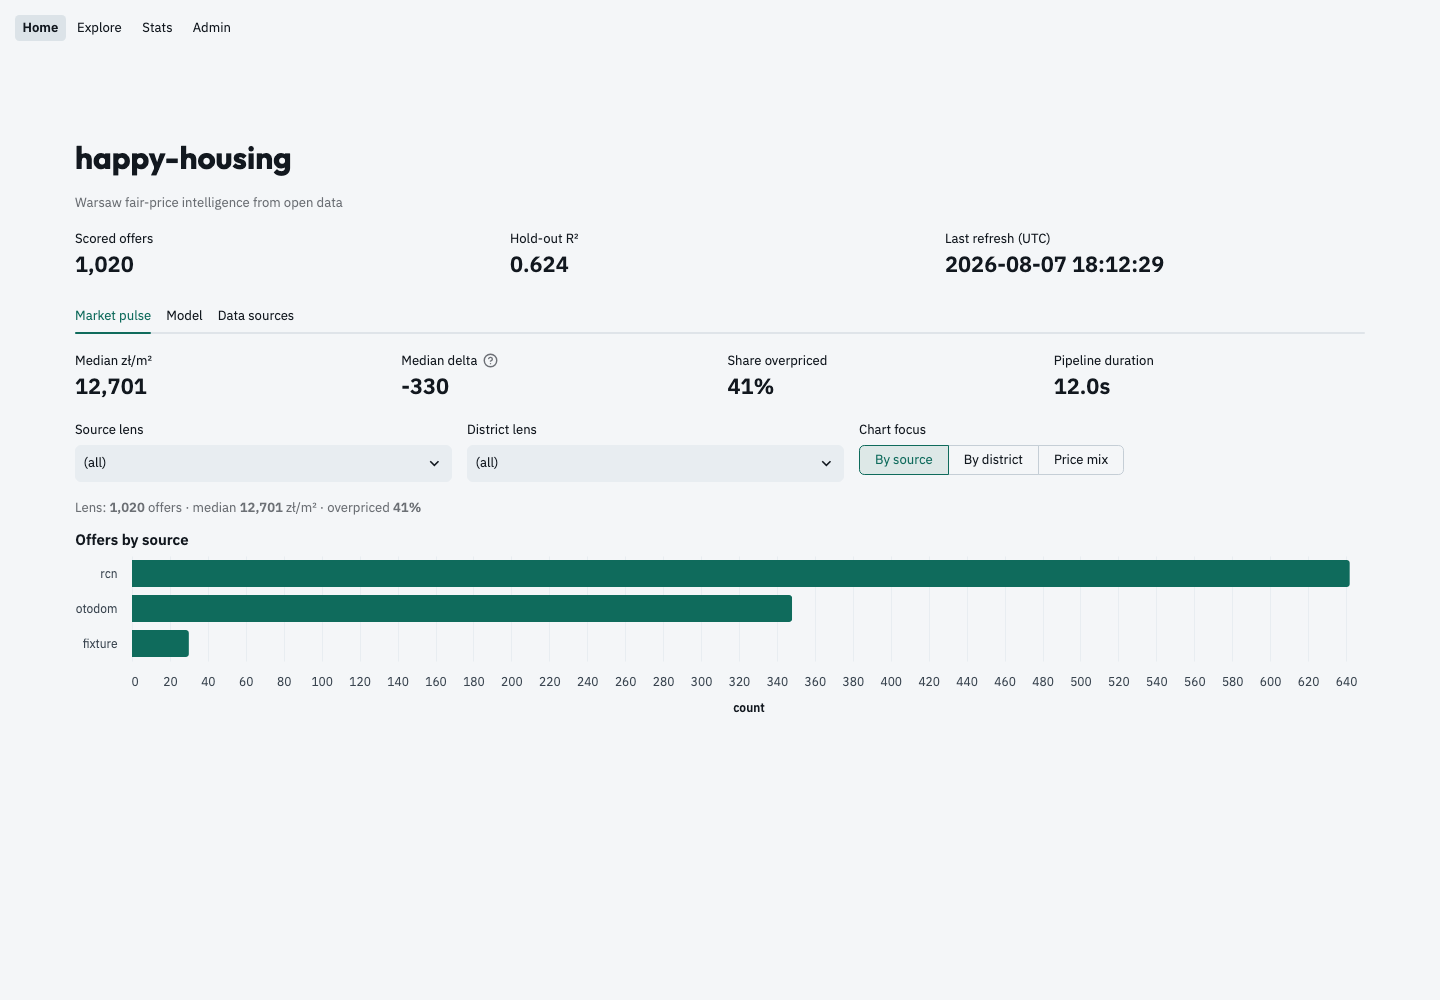
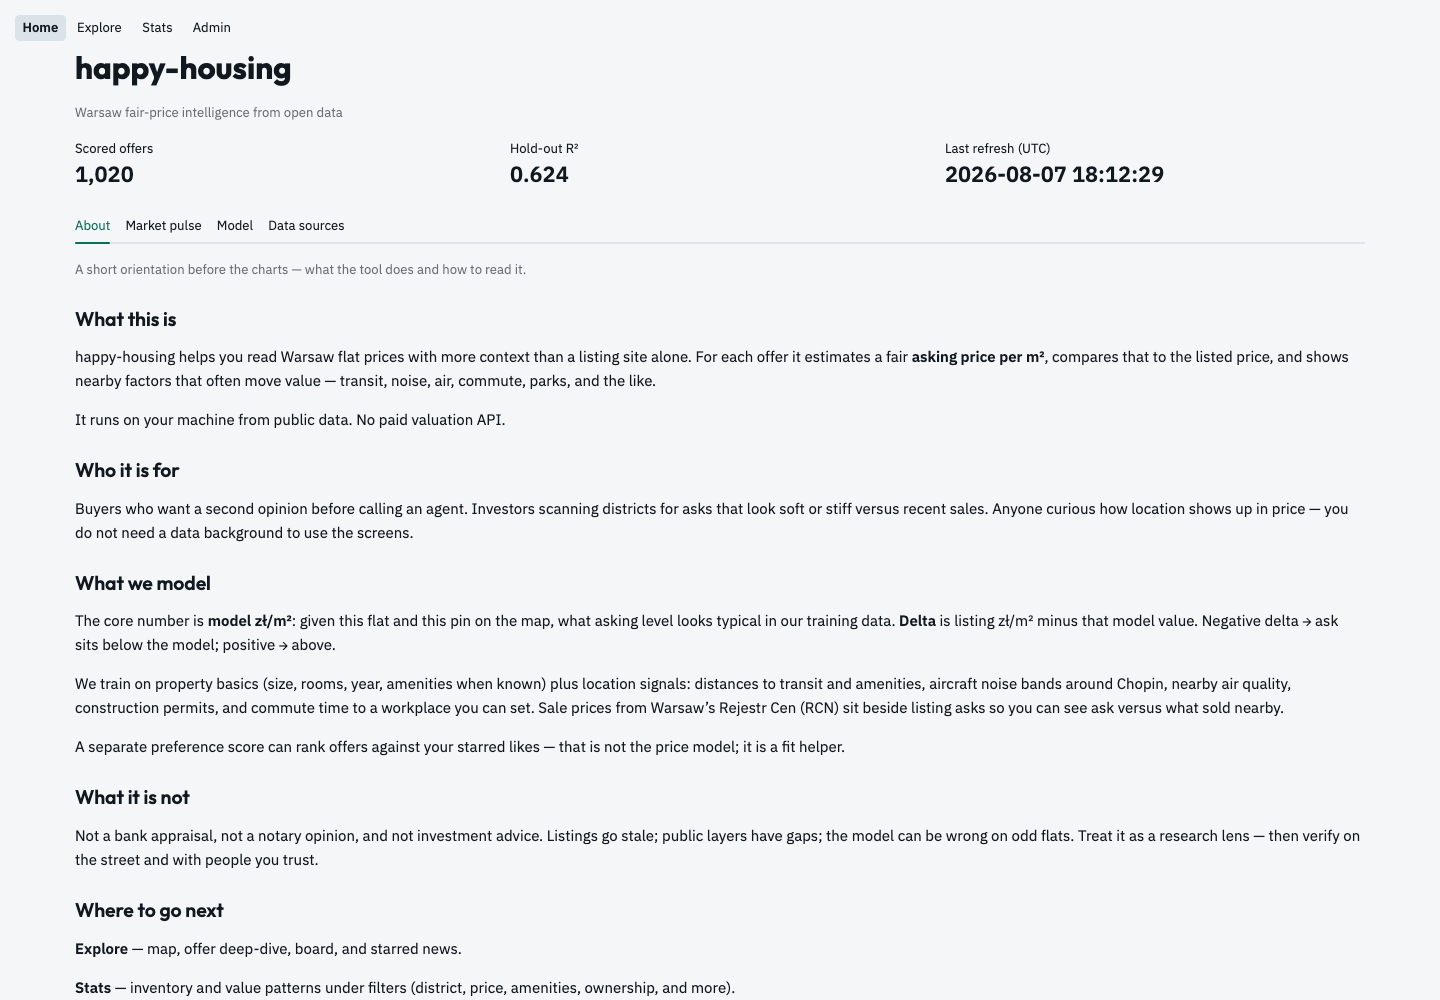
feat(home): add default About tab with business orientation
Plain-language purpose, what we model, limits, and where to go next.
Refresh README Home screenshots for About + Market pulse.

diff --git a/src/happy_housing/app/home_about.py b/src/happy_housing/app/home_about.py
@@ -1,0 +1,84 @@
+"""Home About tab copy — business purpose in plain language."""
+
+from __future__ import annotations
+
+from dataclasses import dataclass
+
+
+@dataclass(frozen=True, slots=True)
+class AboutSection:
+    """One titled block on the Home About tab."""
+
+    title: str
+    """Short section heading."""
+    body: str
+    """Markdown body (short paragraphs, no jargon stack)."""
+
+
+ABOUT_SECTIONS: tuple[AboutSection, ...] = (
+    AboutSection(
+        title="What this is",
+        body=(
+            "happy-housing helps you read Warsaw flat prices with more context "
+            "than a listing site alone. For each offer it estimates a fair "
+            "**asking price per m²**, compares that to the listed price, and "
+            "shows nearby factors that often move value — transit, noise, air, "
+            "commute, parks, and the like.\n\n"
+            "It runs on your machine from public data. No paid valuation API."
+        ),
+    ),
+    AboutSection(
+        title="Who it is for",
+        body=(
+            "Buyers who want a second opinion before calling an agent. "
+            "Investors scanning districts for asks that look soft or stiff "
+            "versus recent sales. Anyone curious how location shows up in "
+            "price — you do not need a data background to use the screens."
+        ),
+    ),
+    AboutSection(
+        title="What we model",
+        body=(
+            "The core number is **model zł/m²**: given this flat and this pin "
+            "on the map, what asking level looks typical in our training data. "
+            "**Delta** is listing zł/m² minus that model value. "
+            "Negative delta → ask sits below the model; positive → above.\n\n"
+            "We train on property basics (size, rooms, year, amenities when "
+            "known) plus location signals: distances to transit and amenities, "
+            "aircraft noise bands around Chopin, nearby air quality, "
+            "construction permits, and commute time to a workplace you can "
+            "set. Sale prices from Warsaw's Rejestr Cen (RCN) sit beside "
+            "listing asks so you can see ask versus what sold nearby.\n\n"
+            "A separate preference score can rank offers against your starred "
+            "likes — that is not the price model; it is a fit helper."
+        ),
+    ),
+    AboutSection(
+        title="What it is not",
+        body=(
+            "Not a bank appraisal, not a notary opinion, and not investment "
+            "advice. Listings go stale; public layers have gaps; the model "
+            "can be wrong on odd flats. Treat it as a research lens — then "
+            "verify on the street and with people you trust."
+        ),
+    ),
+    AboutSection(
+        title="Where to go next",
+        body=(
+            "**Explore** — map, offer deep-dive, board, and starred news.\n\n"
+            "**Stats** — inventory and value patterns under filters "
+            "(district, price, amenities, ownership, and more).\n\n"
+            "**Market pulse** (next tab) — a quick cut of the scored universe.\n\n"
+            "**Model** / **Data sources** — hold-out metrics and attributions "
+            "if you want the plumbing.\n\n"
+            "**Admin** — refresh scrapes, retrain, and tune settings when you "
+            "run the pipeline yourself."
+        ),
+    ),
+)
+"""Ordered About sections shown as the default Home tab."""
+
+
+def about_section_titles() -> tuple[str, ...]:
+    """Stable titles for tests and docs."""
+    return tuple(section.title for section in ABOUT_SECTIONS)

diff --git a/src/happy_housing/app/page_home.py b/src/happy_housing/app/page_home.py
@@ -1,4 +1,4 @@
-"""Home page: interactive market overview, sources with URLs, model story."""
+"""Home page: about, market overview, sources with URLs, model story."""
 
 from __future__ import annotations
 
@@ -17,6 +17,7 @@ from happy_housing.app.data import (
     processed_dir,
     scored_path,
 )
+from happy_housing.app.home_about import ABOUT_SECTIONS
 from happy_housing.app.home_hero import format_hero_stats
 from happy_housing.app.home_stats import counts_frame, market_summary
 from happy_housing.app.metadata import (
@@ -42,6 +43,16 @@ def _hero(refreshed: str | None, n_offers: int, r2: float | None) -> None:
     c1.metric("Scored offers", stats.offers_label)
     c2.metric("Hold-out R²", stats.r2_label)
     c3.metric("Last refresh (UTC)", stats.refreshed_label)
+
+
+def _tab_about() -> None:
+    """Business purpose of the tool in plain language."""
+    st.caption(
+        "A short orientation before the charts — what the tool does and how to read it."
+    )
+    for section in ABOUT_SECTIONS:
+        st.subheader(section.title)
+        st.markdown(section.body)
 
 
 def _kpi_strip(summary: dict[str, Any], duration_s: float | None) -> None:
@@ -244,11 +255,14 @@ def render_home() -> None:
 
     _hero(refreshed, summary["n_offers"], r2)
 
-    overview, model_tab, sources_tab = st.tabs([
+    about_tab, overview, model_tab, sources_tab = st.tabs([
+        "About",
         "Market pulse",
         "Model",
         "Data sources",
     ])
+    with about_tab:
+        _tab_about()
     with overview:
         if frame.empty:
             st.info("No scored offers yet — run Admin → pipeline.")

diff --git a/tests/app/test_home_about.py b/tests/app/test_home_about.py
@@ -1,0 +1,34 @@
+"""Tests for Home About business copy."""
+
+from __future__ import annotations
+
+from happy_housing.app.home_about import ABOUT_SECTIONS, about_section_titles
+
+
+def test_about_sections_cover_business_basics() -> None:
+    titles = about_section_titles()
+    assert titles[0] == "What this is"
+    assert "Who it is for" in titles
+    assert "What we model" in titles
+    assert "What it is not" in titles
+    assert "Where to go next" in titles
+
+
+def test_about_copy_stays_plain_and_nonempty() -> None:
+    banned = (
+        "leverage",
+        "seamless",
+        "empower",
+        "cutting-edge",
+        "revolutionize",
+        "synergy",
+        "holistic",
+    )
+    for section in ABOUT_SECTIONS:
+        assert section.title.strip()
+        assert len(section.body.strip()) > 40
+        low = section.body.lower()
+        for word in banned:
+            assert word not in low, f"{section.title} contains '{word}'"
+        assert "lightgbm" not in low
+        assert "shap" not in low

diff --git a/scripts/capture_readme_screenshots.py b/scripts/capture_readme_screenshots.py
@@ -42,6 +42,8 @@ def main() -> None:
         page.wait_for_timeout(3000)
 
         _shot(page, "01-home.png")
+        _tab(page, "Market pulse")
+        _shot(page, "01b-home-pulse.png")
         _tab(page, "Model")
         _shot(page, "02-home-model.png")
         _tab(page, "Data sources")

diff --git a/README.md b/README.md
@@ -6,7 +6,7 @@
 
 Asking prices alone mislead. Two similar flats can differ by metro access, aircraft noise, nearby construction, air quality, or commute time to the centre. This project joins those signals with transaction history and listings so you can judge whether an offer is expensive, fair, or a bargain — with an explanation, not a black box.
 
-![Home — market pulse](docs/screenshots/01-home.png)
+![Home — About](docs/screenshots/01-home.png)
 
 ## Who it is for
 
@@ -20,7 +20,10 @@ Streamlit multipage UI: **Home · Explore · Stats · Admin**.
 
 ### Home
 
-Brand strip, scored-offer KPIs, market pulse charts, model hold-out metrics, and open-data source inventory (row counts + last fetch).
+Default **About** tab (purpose and how to read the numbers), then market pulse
+charts, model hold-out metrics, and open-data source inventory.
+
+![Home — Market pulse](docs/screenshots/01b-home-pulse.png)
 
 ![Home — Model](docs/screenshots/02-home-model.png)
 
